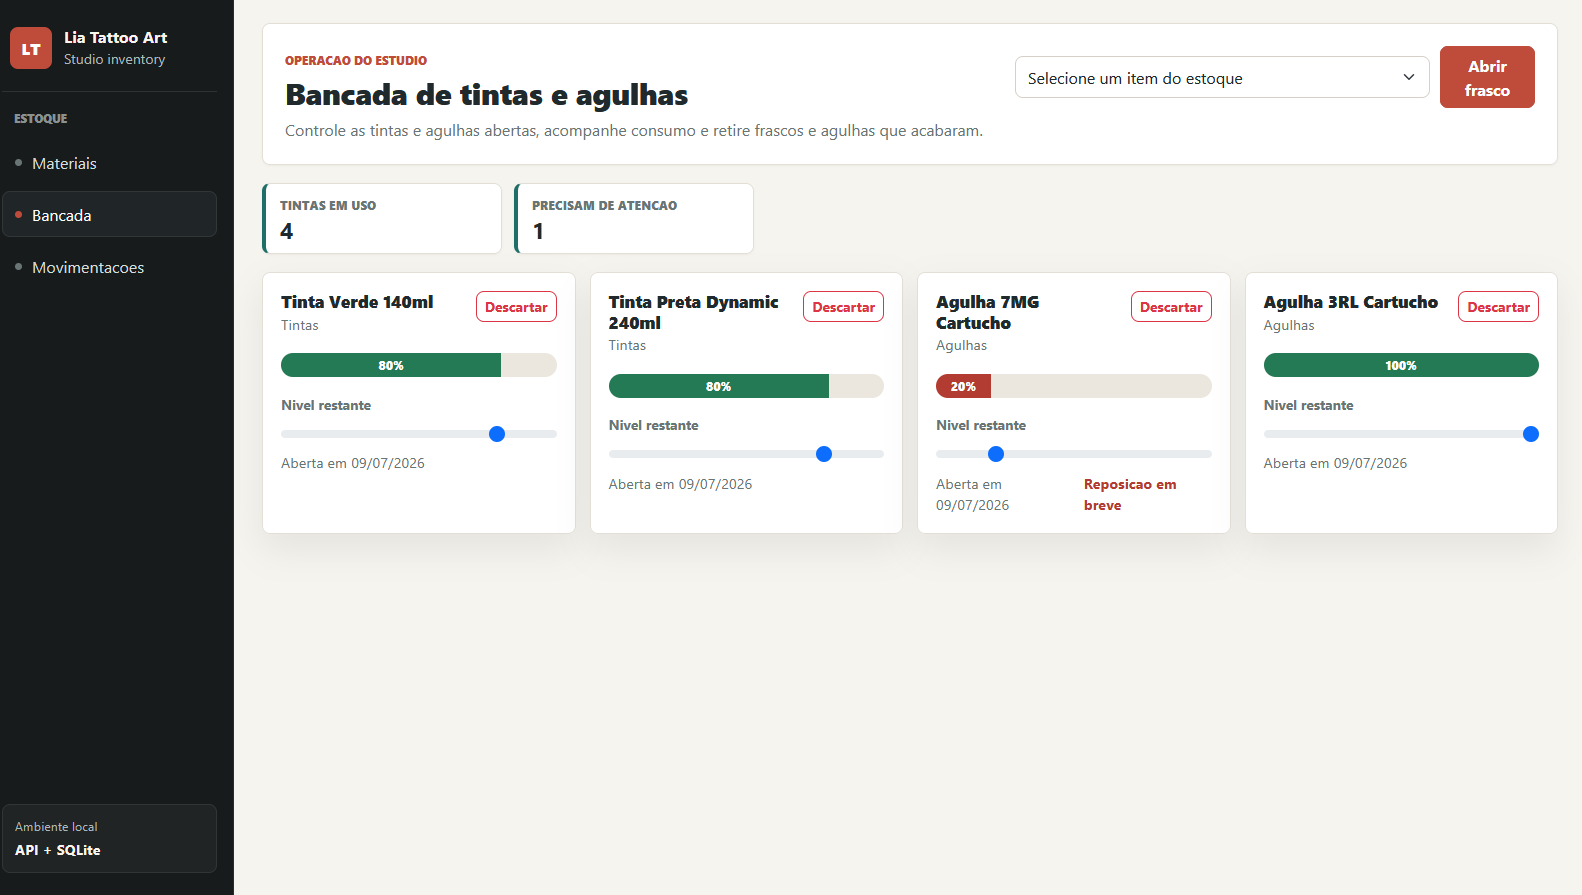
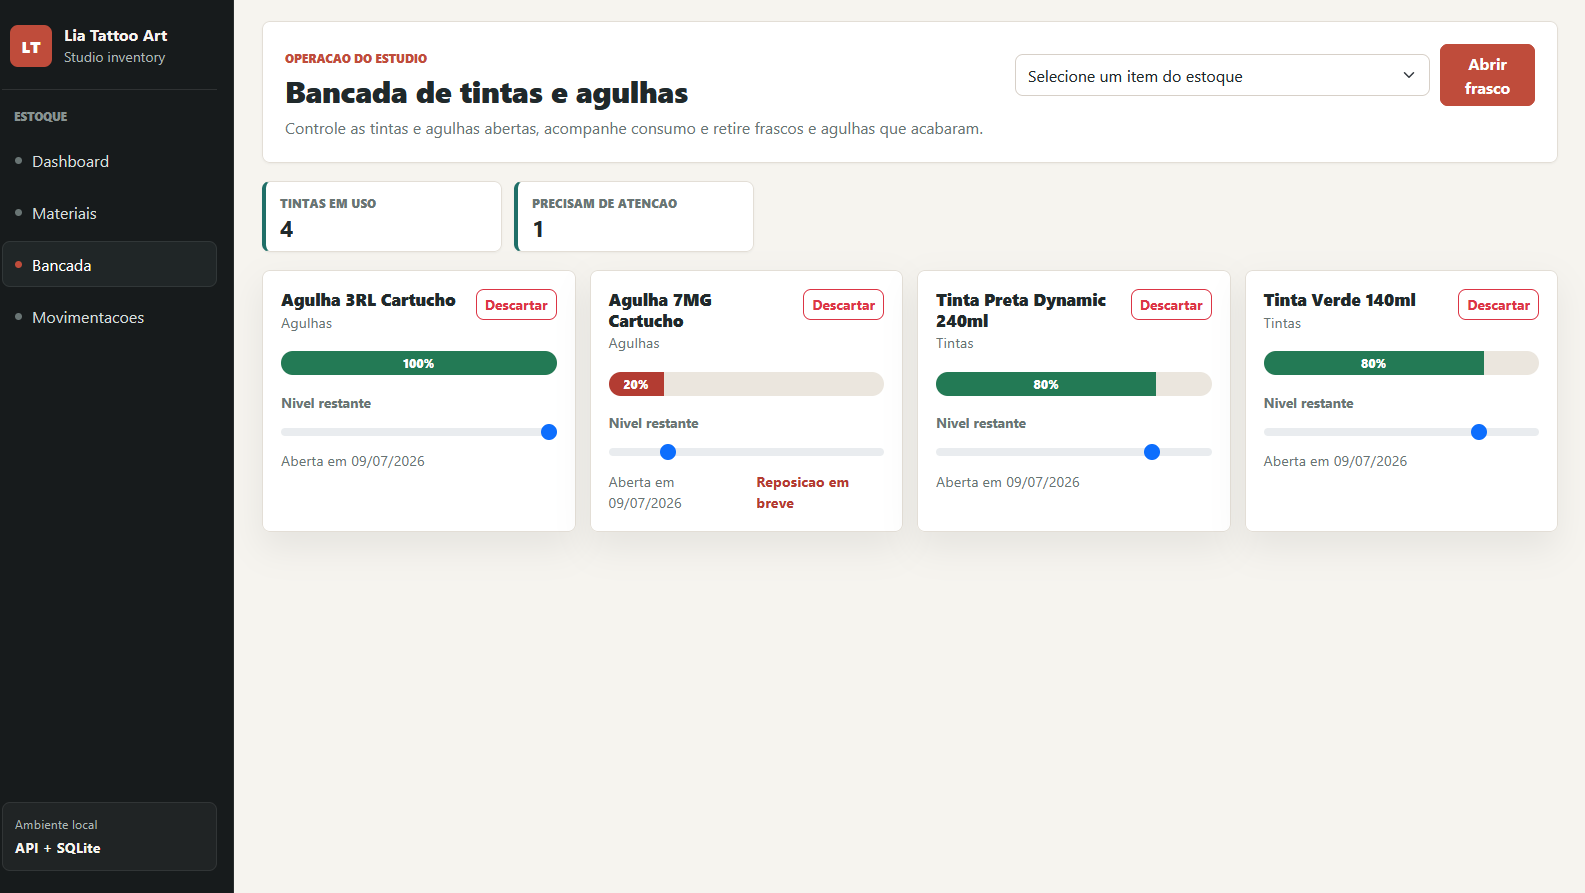
atualização dos prints do Readme

diff --git a/README.md b/README.md
@@ -10,9 +10,9 @@ Este projeto foi desenvolvido como estudo prático de integração entre front-e
 
 > As imagens abaixo podem ser atualizadas com capturas reais da aplicação rodando localmente.
 
-| Materiais | Bancada | Movimentações |
+| Dashboard | Materiais | Bancada |
 | --- | --- | --- |
-| ![Tela de materiais](docs/images/materiais.png) | ![Tela da bancada](docs/images/bancada.png) | ![Tela de movimentações](docs/images/movimentacoes.png) |
+| ![Dashboard](docs/images/dashboard.png) | ![Tela de materiais](docs/images/materiais.png) | ![Tela da bancada](docs/images/bancada.png) |  
 
 ## Funcionalidades
 